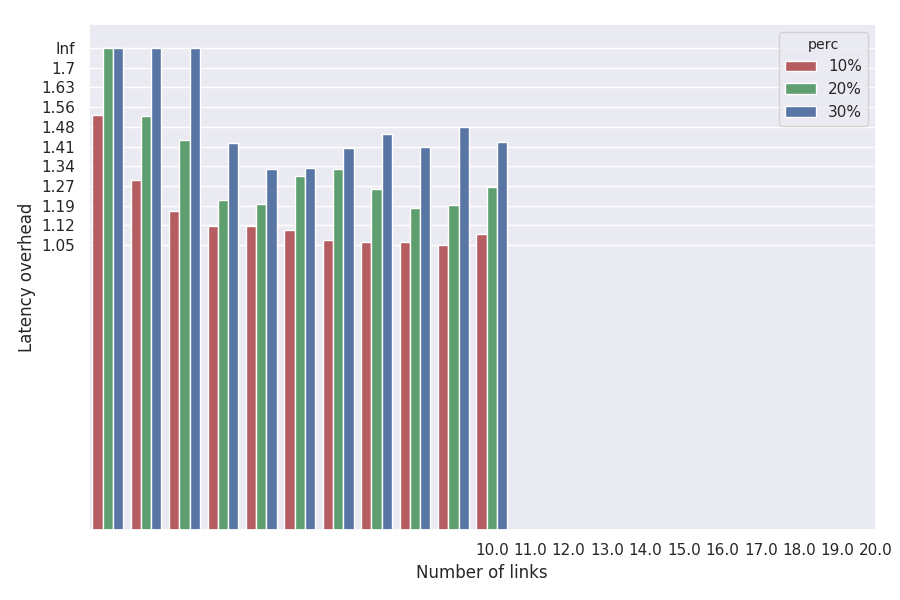
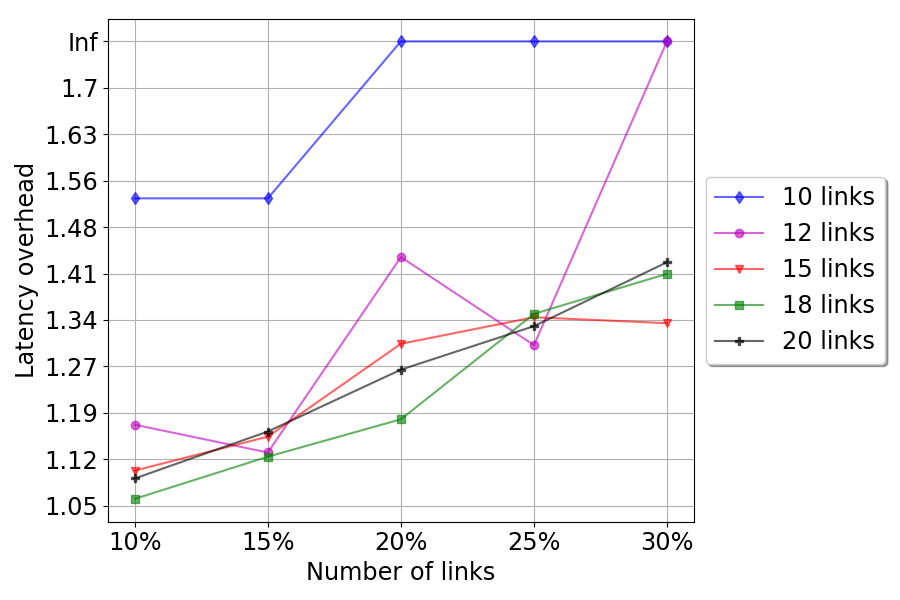
Changes fault proportion analysis graphs

diff --git a/analysis/analyse.py b/analysis/analyse.py
@@ -153,7 +153,7 @@ def fault_tolerance_box_plot(df):
         plt.savefig(outputfig)
         plt.clf()
 
-fault_tolerance_box_plot(selected)
+#fault_tolerance_box_plot(selected)
 
 def median_faults(graph):
     #returns a dict with the respective fitnesses for
@@ -211,23 +211,45 @@ def fault_fitness_median_graph(selected, proportional, outdir):
         ymin = min(fit_prop['y'])
         inf = ymax * 1.1
         fit_prop = fit_prop.fillna(inf)
-        fit_prop = fit_prop[fit_prop['perc'] != 15]
-        fit_prop = fit_prop[fit_prop['perc'] != 25]
+        #fit_prop = fit_prop[fit_prop['perc'] != 15]
+        #fit_prop = fit_prop[fit_prop['perc'] != 25]
         fit_prop['perc'] = fit_prop['perc'].astype(int)
         fit_prop['perc'] = fit_prop['perc'].astype(str)
         fit_prop['perc'] += '%'
 
-        sns.barplot(x='x', y='y', data=fit_prop, hue='perc',
-                palette=['r', 'g', 'b'] )
-        plt.xlabel("Number of links")
+        print(fit_prop)
+        epsilons = np.round(np.arange(xmin, xmax + 1, (xmax - xmin)/4))
+        print(epsilons)
+        print(fit_prop[fit_prop['x'].isin(epsilons)])
+        fit_prop = fit_prop[fit_prop['x'].isin(epsilons)]
+
+        #sns.lineplot(x='perc', y='y', data=fit_prop, hue='num_links')
+        fig, ax = plt.subplots(figsize=(9,6))
+        count = 0
+        colours = ['b', 'm', 'r', 'g', 'k']
+        markers = ['d', 'o', 'v', 's', 'P']
+        for eps in fit_prop['x'].unique():
+            sel_num_links = fit_prop[fit_prop['x'] == eps]
+            ax.plot(sel_num_links['perc'], sel_num_links['y'],
+                    color=colours[count], alpha=0.6,
+                    marker=markers[count],
+                    label=str(int(eps)) + " links")
+            count += 1
+        ax.legend(shadow=True, fontsize='xx-large',
+                loc='center left', bbox_to_anchor=(1, 0.5))
+
+        #sns.lineplot(x='perc', y='y', data=fit_prop, hue='x')
+        plt.xlabel("Number of links", fontsize="xx-large")
         if (proportional):
-            plt.ylabel("Latency overhead")
+            plt.ylabel("Latency overhead", fontsize="xx-large")
         else:
-            plt.ylabel("Latency")
+            plt.ylabel("Latency Estimation (Fitness)",
+                    fontsize="xx-large")
 
         #plt.legend(bbox_to_anchor=(1.05, 1), loc=2, borderaxespad=0.)
-        plt.tight_layout()
-        plt.xticks(np.arange(xmin, xmax + 1))
+        #plt.xticks(np.arange(xmin, xmax + 1))
+        plt.xticks(fit_prop['perc'].unique(), fontsize="xx-large")
+
         step = (inf - ymin) / 10
         ytcks = np.arange(ymin, inf + 0.0001*step, step)
         if (proportional):
@@ -236,13 +258,16 @@ def fault_fitness_median_graph(selected, proportional, outdir):
             ytcks = [int(yt) for yt in ytcks]
         ytcks[-1] = 'Inf'
         plt.yticks(np.arange(ymin, inf + step, step),
-                ytcks)
+                ytcks, fontsize="xx-large")
+        plt.grid()
+
         outfname = os.path.join(outdir, filter_graph_name(graph))
+        plt.tight_layout()
         plt.savefig(outfname)
         plt.clf()
 
 #sns.set(rc={'figure.figsize':(9, 6)})
-#fault_fitness_median_graph(selected, True, fault_prop)
+fault_fitness_median_graph(selected, True, fault_prop)
 #fault_fitness_median_graph(selected, False, fault_fit)
 
 #all median
